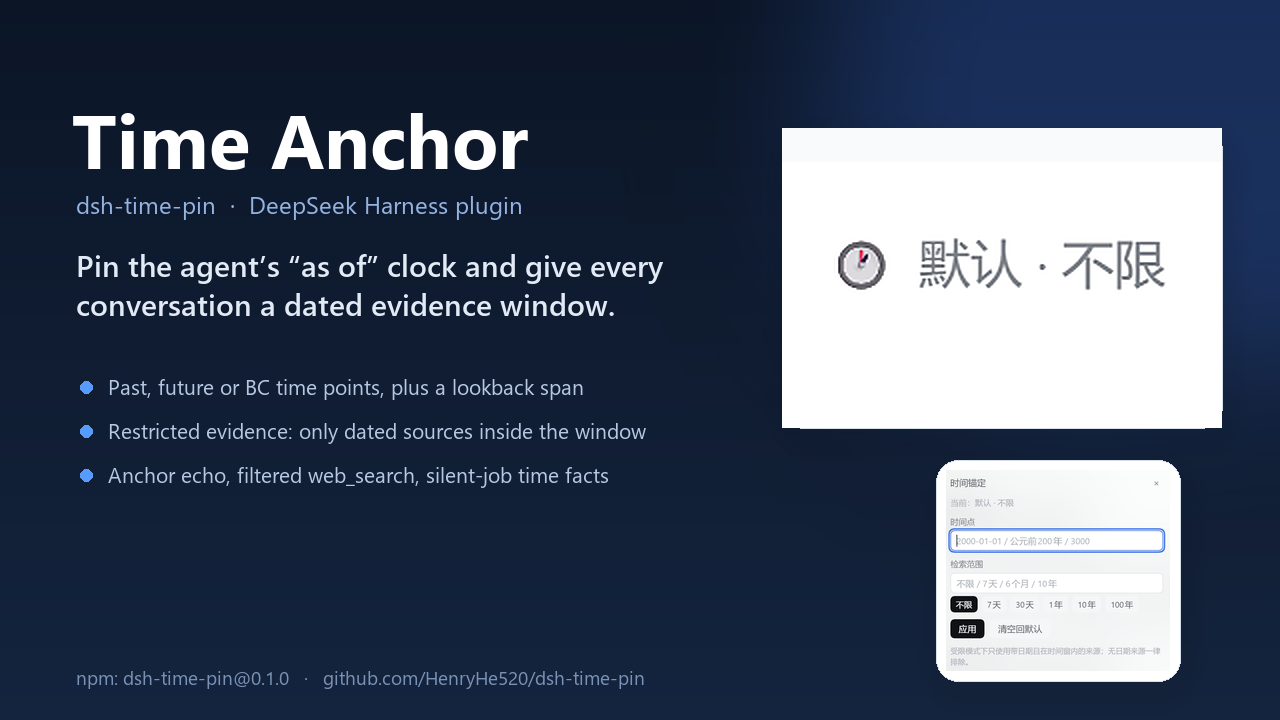
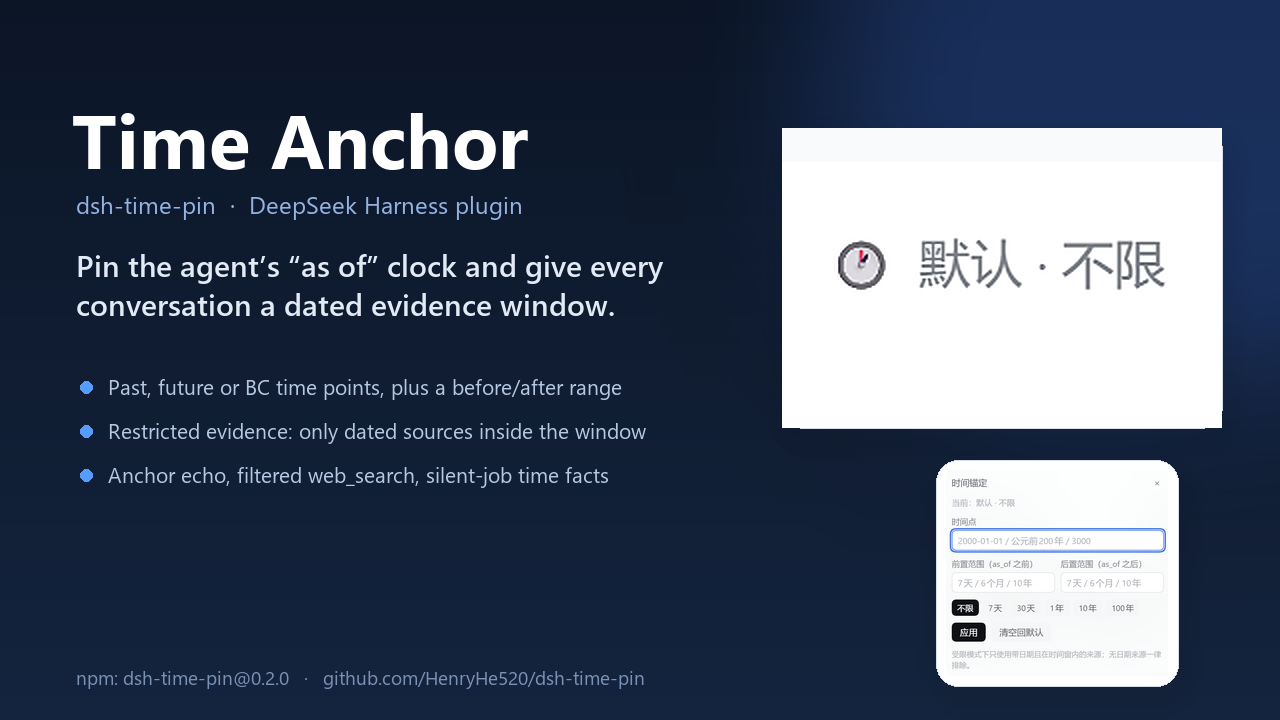
0.2.0 screenshots: two-sided range panel, updated captions and cover

diff --git a/scripts/build-marketplace-assets.py b/scripts/build-marketplace-assets.py
@@ -173,7 +173,7 @@ def cover(chip: Image.Image, panel: Image.Image) -> Image.Image:
     draw.text((76, 283), "conversation a dated evidence window.", font=font(SEMI, 30), fill=(226, 234, 246))
 
     bullets = [
-        "Past, future or BC time points, plus a lookback span",
+        "Past, future or BC time points, plus a before/after range",
         "Restricted evidence: only dated sources inside the window",
         "Anchor echo, filtered web_search, silent-job time facts",
     ]
@@ -197,7 +197,7 @@ def cover(chip: Image.Image, panel: Image.Image) -> Image.Image:
     rounded_card(canvas, (px - 10, py - 10, px + panel_small.width + 10, py + panel_small.height + 10))
     canvas.paste(panel_small, (px, py))
 
-    draw.text((76, 664), "npm: dsh-time-pin@0.1.0   ·   github.com/HenryHe520/dsh-time-pin", font=font(REGULAR, 19), fill=(122, 146, 180))
+    draw.text((76, 664), "npm: dsh-time-pin@0.2.0   ·   github.com/HenryHe520/dsh-time-pin", font=font(REGULAR, 19), fill=(122, 146, 180))
     target = SHOTS / "cover-16x9.png"
     canvas.save(target, format="PNG", optimize=True)
     print(f"cover-16x9.png: {canvas.width}x{canvas.height}, {target.stat().st_size // 1024} KiB")
@@ -212,15 +212,15 @@ def main() -> int:
     outputs.append(compose(
         "shot-01-default.png",
         "A pinned clock in the conversation header",
-        "Default mode injects nothing and filters nothing — pin a point and a lookback span when you need one",
+        "Default mode injects nothing and filters nothing — pin a point and a range around it when you need one",
         chip_gallery(chip), 1.0,
     ))
 
     panel = raw["raw-02-panel"]
     outputs.append(compose(
         "shot-02-window-panel.png",
-        "Set a time point and a lookback span",
-        "Past, future or BC; one click applies it to this conversation",
+        "Set a time point and a range on both sides",
+        "Past, future or BC; leave one side empty and the other mirrors it",
         panel, 0.82,
     ))
 
@@ -231,7 +231,7 @@ def main() -> int:
     outputs.append(compose(
         "shot-03-command-receipts.png",
         "One command, one validator",
-        "/pin receipt for a pinned 2000-01-01 window and for a future 3000-01-01 view",
+        "/pin receipts for a restricted date window and for a future view",
         receipts, 1.0,
     ))
 
